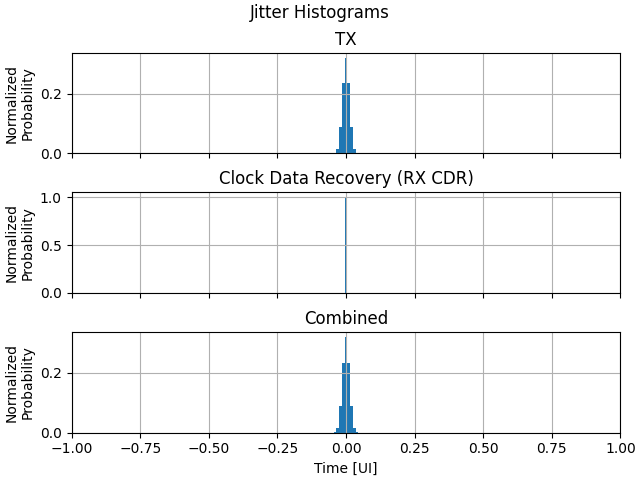
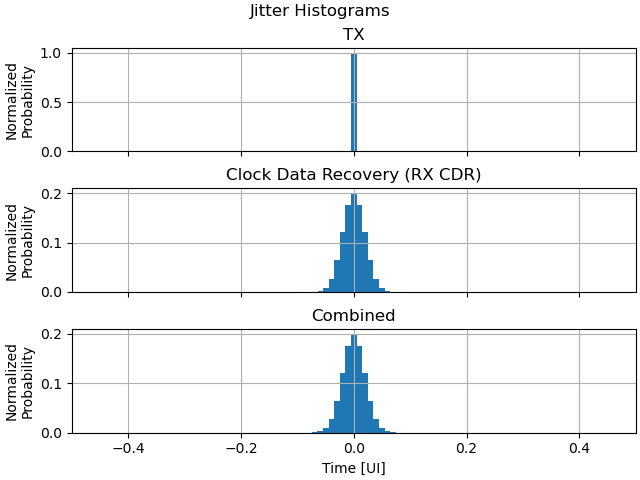
Added descriptions to examples

diff --git a/generateUserSettingsExampleECE1392.py b/generateUserSettingsExampleECE1392.py
@@ -1,6 +1,8 @@
 from userSettingsObjects import simulationSettings, valueWithLimits
 from math import sqrt, pow
 
+# Example configuration used as the basis for an ECE1392 assignment
+
 def generateUserSettings() -> simulationSettings:
     simSettings = simulationSettings()
 
@@ -32,8 +34,8 @@ def generateUserSettings() -> simulationSettings:
     simSettings.general.targetBER.value = 1e-6 # used for measurement purposes
 
     # Display responses
-    simSettings.general.plotting.channelResponse = False
-    simSettings.general.plotting.CTLEResponse    = False
+    simSettings.general.plotting.channelResponse = True
+    simSettings.general.plotting.CTLEResponse    = True
     simSettings.general.plotting.pulseResponse   = True
     
     # Display inteferences
@@ -96,10 +98,10 @@ def generateUserSettings() -> simulationSettings:
 
     # Pre-emphasis
     simSettings.transmitter.EQ.addEqualization = False
-    simSettings.transmitter.EQ.taps.pre3 = valueWithLimits(-0.0)
-    simSettings.transmitter.EQ.taps.pre2 = valueWithLimits(-0.0)
-    simSettings.transmitter.EQ.taps.pre1 = valueWithLimits(-0.0)
-    simSettings.transmitter.EQ.taps.main = valueWithLimits(-0.0) # calculated automatically
+    simSettings.transmitter.EQ.taps.pre3  = valueWithLimits(-0.0)
+    simSettings.transmitter.EQ.taps.pre2  = valueWithLimits(-0.0)
+    simSettings.transmitter.EQ.taps.pre1  = valueWithLimits(-0.0)
+    simSettings.transmitter.EQ.taps.main  = valueWithLimits(-0.0) # calculated automatically
     simSettings.transmitter.EQ.taps.post1 = valueWithLimits(-0.0)
     simSettings.transmitter.EQ.taps.post2 = valueWithLimits(-0.0)
     simSettings.transmitter.EQ.taps.post3 = valueWithLimits(-0.0)
@@ -107,10 +109,10 @@ def generateUserSettings() -> simulationSettings:
     simSettings.transmitter.EQ.taps.post5 = valueWithLimits(-0.0)
 
     # Jitter
-    simSettings.transmitter.jitter.addJitter = True
-    simSettings.transmitter.jitter.stdDeviation.value = 0.01 # TX random jitter standard diviation [UI]
-    simSettings.transmitter.jitter.amplitude.value = 0.01    # TX deterministic jitter amplitude [UI]
-    simSettings.transmitter.jitter.DCD.value = 0.01          # TX duty-cycle distortion jitter [UI]
+    simSettings.transmitter.jitter.addJitter = False
+    simSettings.transmitter.jitter.stdDeviation.value = 0 # TX random jitter standard diviation [UI]
+    simSettings.transmitter.jitter.amplitude.value = 0    # TX deterministic jitter amplitude [UI]
+    simSettings.transmitter.jitter.DCD.value = 0          # TX duty-cycle distortion jitter [UI]
     
     # Noise
     simSettings.transmitter.noise.addNoise = True
@@ -119,7 +121,7 @@ def generateUserSettings() -> simulationSettings:
     simSettings.transmitter.noise.frequency.value = 1e6  # TX deterministic noise frequency [Hz]
 
     # Distortion
-    simSettings.transmitter.distortion.addDistortion = True
+    simSettings.transmitter.distortion.addDistortion = False
     simSettings.transmitter.distortion.fileName = 'distortionTX.mat'
     
     ########################################
@@ -188,26 +190,26 @@ def generateUserSettings() -> simulationSettings:
     
     # FFE
     simSettings.receiver.FFE.addEqualization = True
-    simSettings.receiver.FFE.taps.pre3 = valueWithLimits(-0.0)
-    simSettings.receiver.FFE.taps.pre2 = valueWithLimits(-0.0)
-    simSettings.receiver.FFE.taps.pre1 = valueWithLimits(0.05)
-    simSettings.receiver.FFE.taps.main = valueWithLimits(1.10)   
+    simSettings.receiver.FFE.taps.pre3  = valueWithLimits(-0.00)
+    simSettings.receiver.FFE.taps.pre2  = valueWithLimits(-0.00)
+    simSettings.receiver.FFE.taps.pre1  = valueWithLimits( 0.05)
+    simSettings.receiver.FFE.taps.main  = valueWithLimits( 1.10)   
     simSettings.receiver.FFE.taps.post1 = valueWithLimits(-0.30)
     simSettings.receiver.FFE.taps.post2 = valueWithLimits(-0.05)
-    simSettings.receiver.FFE.taps.post3 = valueWithLimits(-0.0)
-    simSettings.receiver.FFE.taps.post4 = valueWithLimits(-0.0)
-    simSettings.receiver.FFE.taps.post5 = valueWithLimits(-0.0)
+    simSettings.receiver.FFE.taps.post3 = valueWithLimits(-0.00)
+    simSettings.receiver.FFE.taps.post4 = valueWithLimits(-0.00)
+    simSettings.receiver.FFE.taps.post5 = valueWithLimits(-0.00)
     
     # DFE
     simSettings.receiver.DFE.addEqualization = False
-    simSettings.receiver.DFE.taps.post1 = valueWithLimits(-0.0)
-    simSettings.receiver.DFE.taps.post2 = valueWithLimits(-0.0)
-    simSettings.receiver.DFE.taps.post3 = valueWithLimits(-0.0)
-    simSettings.receiver.DFE.taps.post4 = valueWithLimits(-0.0)
-    simSettings.receiver.DFE.taps.post5 = valueWithLimits(-0.0)
+    simSettings.receiver.DFE.taps.post1 = valueWithLimits(-0.00)
+    simSettings.receiver.DFE.taps.post2 = valueWithLimits(-0.00)
+    simSettings.receiver.DFE.taps.post3 = valueWithLimits(-0.00)
+    simSettings.receiver.DFE.taps.post4 = valueWithLimits(-0.00)
+    simSettings.receiver.DFE.taps.post5 = valueWithLimits(-0.00)
     
     # Jitter
-    simSettings.receiver.jitter.addJitter = True
+    simSettings.receiver.jitter.addJitter = False
     simSettings.receiver.jitter.stdDeviation.value = 0.02 # CDR random jitter standard diviation [UI]
     simSettings.receiver.jitter.amplitude.value = 0    # CDR deterministic jitter amplitude [UI]
     simSettings.receiver.jitter.DCD.value = 0          # CDR duty-cycle distortion jitter [UI]

diff --git a/stateye.py b/stateye.py
@@ -1,6 +1,6 @@
 import time # Used for timing exectution
 import matplotlib.pyplot as plt
-from generateUserSettingsExampleECE1392 import generateUserSettings # Change the 'from' file to desired file
+from generateUserSettingsExample0 import generateUserSettings # Change the 'from' file to desired file
 from generateSettingsLimits import generateSettingsLimits
 from initializeSimulation import initializeSimulation
 from checkSettings import checkSettings

diff --git a/generateUserSettingsExample1.py b/generateUserSettingsExample1.py
@@ -1,6 +1,9 @@
 from userSettingsObjects import simulationSettings, valueWithLimits
 from math import sqrt, pow
 
+# Example of using a pre-defined pulse response
+#TODO: #2 Need to get the referenced LNA .MAT files to test this
+
 def generateUserSettings() -> simulationSettings:
     simSettings = simulationSettings()
 

diff --git a/generateUserSettingsExample0.py b/generateUserSettingsExample0.py
@@ -1,6 +1,8 @@
 from userSettingsObjects import simulationSettings, valueWithLimits
 from math import sqrt, pow
 
+# Generate pulse response from channel response for a PAM-4 system
+
 def generateUserSettings() -> simulationSettings:
     simSettings = simulationSettings()
 

diff --git a/generateUserSettingsExample4.py b/generateUserSettingsExample4.py
@@ -1,6 +1,8 @@
 from userSettingsObjects import simulationSettings, valueWithLimits
 from math import sqrt, pow
 
+# Genetic optimization example for adaption system
+
 def generateUserSettings() -> simulationSettings:
     simSettings = simulationSettings()
 

diff --git a/generateUserSettingsExample3.py b/generateUserSettingsExample3.py
@@ -1,6 +1,8 @@
 from userSettingsObjects import simulationSettings, valueWithLimits
 from math import sqrt, pow
 
+# Clock example
+
 def generateUserSettings() -> simulationSettings:
     simSettings = simulationSettings()
 

diff --git a/generateUserSettingsExample2.py b/generateUserSettingsExample2.py
@@ -1,6 +1,8 @@
 from userSettingsObjects import simulationSettings, valueWithLimits
 from math import sqrt, pow
 
+# 1+D example
+
 def generateUserSettings() -> simulationSettings:
     simSettings = simulationSettings()
 

diff --git a/README.md b/README.md
@@ -12,7 +12,7 @@ Statistical eye modelling tool, StatEye, ported to Python 3. Uses statistical me
 
 ## Example Outputs
 
-The following output plots are generated using the configuration in `generateUserSettingsExampleECE1392.py`.
+The following output plots are generated using the configuration in `generateUserSettingsExample0.py`.
 
 Polots related to the system's characteristics
 
